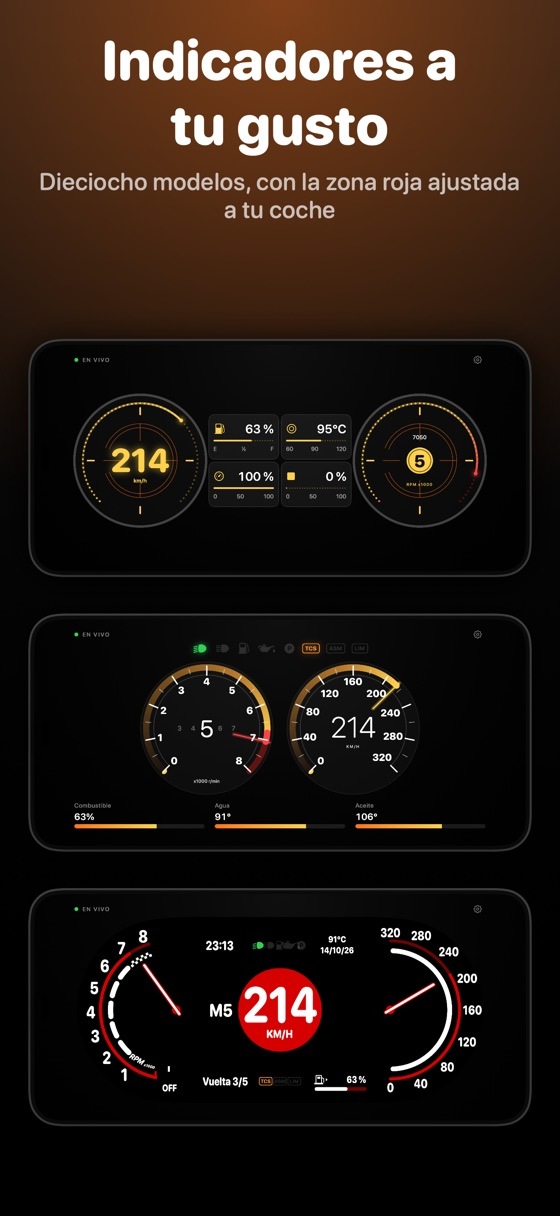
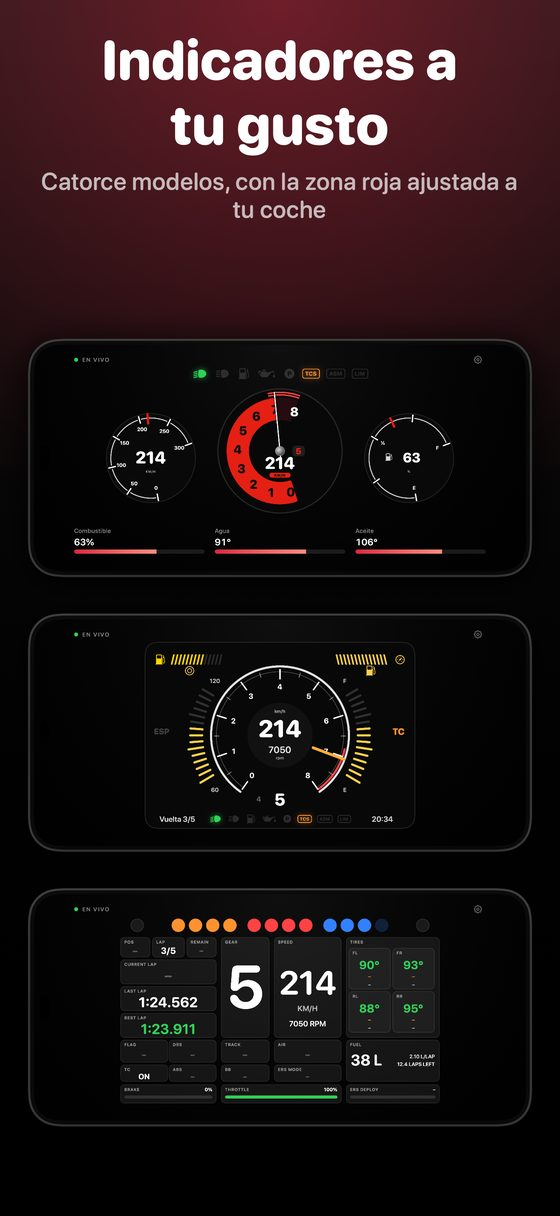
Website for 1.5: fourteen gauge models, the gauge shot with the new ones, What's New in 1.5 (publish when 1.5 is approved)

diff --git a/index.html b/index.html
@@ -52,8 +52,8 @@ try{var l=localStorage.getItem('lang')||((navigator.language||'es').slice(0,2)==
     <img lang="en" src="img/en-m1.jpg" width="560" height="1216" loading="lazy" alt="Your circuit, live: the track map with your car on it">
     <img lang="es" src="img/es-m2.jpg" width="560" height="1216" loading="lazy" alt="RADIO, tu ingeniero de carrera">
     <img lang="en" src="img/en-m2.jpg" width="560" height="1216" loading="lazy" alt="RADIO, your race engineer">
-    <img lang="es" src="img/es-m3.jpg" width="560" height="1216" loading="lazy" alt="Indicadores a tu gusto: tres de los dieciocho modelos">
-    <img lang="en" src="img/en-m3.jpg" width="560" height="1216" loading="lazy" alt="Gauges your way: three of the eighteen models">
+    <img lang="es" src="img/es-m3.jpg" width="560" height="1216" loading="lazy" alt="Indicadores a tu gusto: tres de los catorce modelos">
+    <img lang="en" src="img/en-m3.jpg" width="560" height="1216" loading="lazy" alt="Gauges your way: three of the fourteen models">
     <img lang="es" src="img/es-m4.jpg" width="560" height="1216" loading="lazy" alt="Delta, combustible y sectores">
     <img lang="en" src="img/en-m4.jpg" width="560" height="1216" loading="lazy" alt="Delta, fuel and sectors">
     <img lang="es" src="img/es-m5.jpg" width="560" height="1216" loading="lazy" alt="Cinco juegos, una sola app">
@@ -69,7 +69,7 @@ try{var l=localStorage.getItem('lang')||((navigator.language||'es').slice(0,2)==
   <h2><span lang="es">Todo lo que necesitas en pista</span><span lang="en">Everything you need on track</span></h2>
   <div class="grid">
     <div class="card"><h3><span lang="es">Un indicador central a tu gusto</span><span lang="en">A central gauge your way</span></h3>
-      <p><span lang="es">Elige entre dieciocho modelos: anillo, sector grueso, aguja, marcas radiales, barra, segmentos y otros doce — velocidad con barra de RPM, marcha con arco, LEDs estilo F1, siete segmentos, tablero de boxes, cronógrafo, solo velocidad, columna de LEDs, doble esfera, cabina y dos diseños propios, «Modern» y «e-Racecar». Mide RPM o velocidad, en km/h o mph, con tu color y zona roja ajustada a tu coche.</span><span lang="en">Pick from eighteen models: ring, thick sector, needle, radial ticks, bar, segments, and twelve more — speed with an RPM bar, gear with an arc, F1-style LEDs, seven-segment, pit board, chronograph, speed only, LED column, twin dials, cockpit and two original designs, “Modern” and “e-Racecar”. Measures RPM or speed, in km/h or mph, with your colour and a red shift zone matched to your car.</span></p></div>
+      <p><span lang="es">Elige entre catorce modelos: anillo, aguja, barra y otros once — marcha grande, LEDs estilo F1, siete segmentos, cronógrafo, doble esfera, cabina, «Modern», «Mission: analógico» (tres relojes), cuadro LCD, rampa y volante F1. Mide RPM o velocidad, en km/h o mph, con tu color y zona roja ajustada a tu coche.</span><span lang="en">Pick from fourteen models: ring, needle, bar and eleven more — big gear, F1-style LEDs, seven-segment, chronograph, twin dials, cockpit, “Modern”, “Mission: analog” (three dials), LCD cluster, ramp and F1 wheel. Measures RPM or speed, in km/h or mph, with your colour and a red shift zone matched to your car.</span></p></div>
     <div class="card"><h3><span lang="es">Mapa del circuito y biblioteca</span><span lang="en">Track map and library</span></h3>
       <p><span lang="es">Desde la primera vuelta ves el trazado con tu coche en vivo, coloreado según ganas o pierdes tiempo. PitWall Ultra recuerda cada circuito y lo muestra completo la próxima vez; ponles nombre en Ajustes.</span><span lang="en">From the first lap you see the circuit's layout with your car live on it, coloured by where you gain or lose time. PitWall Ultra remembers every circuit you drive and shows it complete next time; name them in Settings.</span></p></div>
     <div class="card"><h3><span lang="es">RADIO, tu ingeniero de carrera</span><span lang="en">RADIO, your race engineer</span></h3>
@@ -92,14 +92,14 @@ try{var l=localStorage.getItem('lang')||((navigator.language||'es').slice(0,2)==
 </section>
 
 <section id="novedades">
-  <h2><span lang="es">Novedades de la versión 1.4</span><span lang="en">What's new in version 1.4</span></h2>
+  <h2><span lang="es">Novedades de la versión 1.5</span><span lang="en">What's new in version 1.5</span></h2>
   <div class="card">
     <ul class="news">
-      <li><span lang="es"><b>Seis indicadores centrales nuevos</b>: «Tablero de boxes», «Cronógrafo», «Solo velocidad», «Columna de LEDs», «Doble esfera» y «Cabina» (dos relojes y cuatro rectángulos con lo que tú elijas).</span><span lang="en"><b>Six new central gauges</b>: “Pit board”, “Chronograph”, “Speed only”, “LED column”, “Twin dials” and “Cockpit” (two dials and four tiles that show what you choose).</span></li>
-      <li><span lang="es"><b>«LEDs F1»</b> ahora son 12 luces naranjas, rojas y azules, con un LED de aviso a cada lado: banderas, DRS y limitador.</span><span lang="en">The <b>“F1 LEDs”</b> gauge is now 12 orange, red and blue lights, with a warning LED on each side: flags, DRS and the pit limiter.</span></li>
-      <li><span lang="es">Todos los indicadores siguen tus ajustes de <b>color, grosor, puntas redondeadas y tipografía</b> (la Expandida ahora cambia de verdad).</span><span lang="en">Every gauge follows your <b>colour, thickness, round-ends and typeface</b> settings (Expanded now really changes the face).</span></li>
-      <li><span lang="es"><b>Ajustes reorganizados</b> en pantallas: Conexión, Indicador (con vista previa en vivo), Pantalla, Avisos, Carreras y Perfiles.</span><span lang="en"><b>Settings reorganised</b> into screens: Connection, Gauge (with a live preview), Display, Alerts, Races and Profiles.</span></li>
-      <li><span lang="es"><b>F1 25</b> ya no corta la sesión al acabar una vuelta en prácticas o clasificación; solo se desconecta cuando el juego deja de enviar datos, y recupera la conexión sola.</span><span lang="en"><b>F1 25</b> no longer ends the session after a lap in practice or qualifying; it only disconnects when the game stops sending data, and it reconnects by itself.</span></li>
+      <li><span lang="es"><b>Cuatro indicadores centrales nuevos</b>: «Mission: analógico» (tres relojes: velocidad, revoluciones en banda y el dato que elijas), «Cuadro LCD», «Rampa» (una barra que se llena con las revoluciones; con caja automática marca la D y muestra la velocidad) y «Volante F1» (LEDs de cambio y todo lo que envía F1 25).</span><span lang="en"><b>Four new central gauges</b>: “Mission: analog” (three dials: speed, revs on a band and the reading you choose), “LCD cluster”, “Ramp” (a bar that fills with the revs; with an automatic gearbox it marks D and shows the speed) and “F1 wheel” (shift LEDs and everything F1 25 sends).</span></li>
+      <li><span lang="es"><b>Segunda pantalla</b>: «Datos» (neumáticos, pedales, temperaturas, vuelta y sectores) y, en F1 25, «Muro»: la parrilla con tiempos y neumáticos de todos los coches.</span><span lang="en"><b>Second screen</b>: “Data” (tyres, pedals, temperatures, lap and sectors) and, in F1 25, “Wall”: the whole grid with everyone's times and tyres.</span></li>
+      <li><span lang="es"><b>Enviar comentarios</b> en Ajustes: abre una incidencia en la página pública del proyecto en GitHub, con la versión y el dispositivo ya rellenos (hace falta una cuenta de GitHub).</span><span lang="en"><b>Send feedback</b> in Settings: opens an issue on the project's public GitHub page with the version and device already filled in (needs a GitHub account).</span></li>
+      <li><span lang="es"><b>Corregido</b>: la app ya no se cierra al quitar un indicador bajo el central ni recuadros de paneles en iPad.</span><span lang="en"><b>Fixed</b>: the app no longer closes when you remove a gauge under the central one or panel tiles on iPad.</span></li>
+      <li><span lang="es"><b>Cambiado</b>: se retiran ocho modelos poco usados (sector grueso, marcas radiales, segmentos, velocidad con barra de RPM, tablero de boxes, solo velocidad, columna de LEDs y e-Racecar); quien los usaba pasa a uno parecido.</span><span lang="en"><b>Changed</b>: eight little-used models are retired (thick sector, radial ticks, segments, speed with RPM bar, pit board, speed only, LED column and e-Racecar); anyone using them moves to a similar one.</span></li>
     </ul>
   </div>
 </section>
